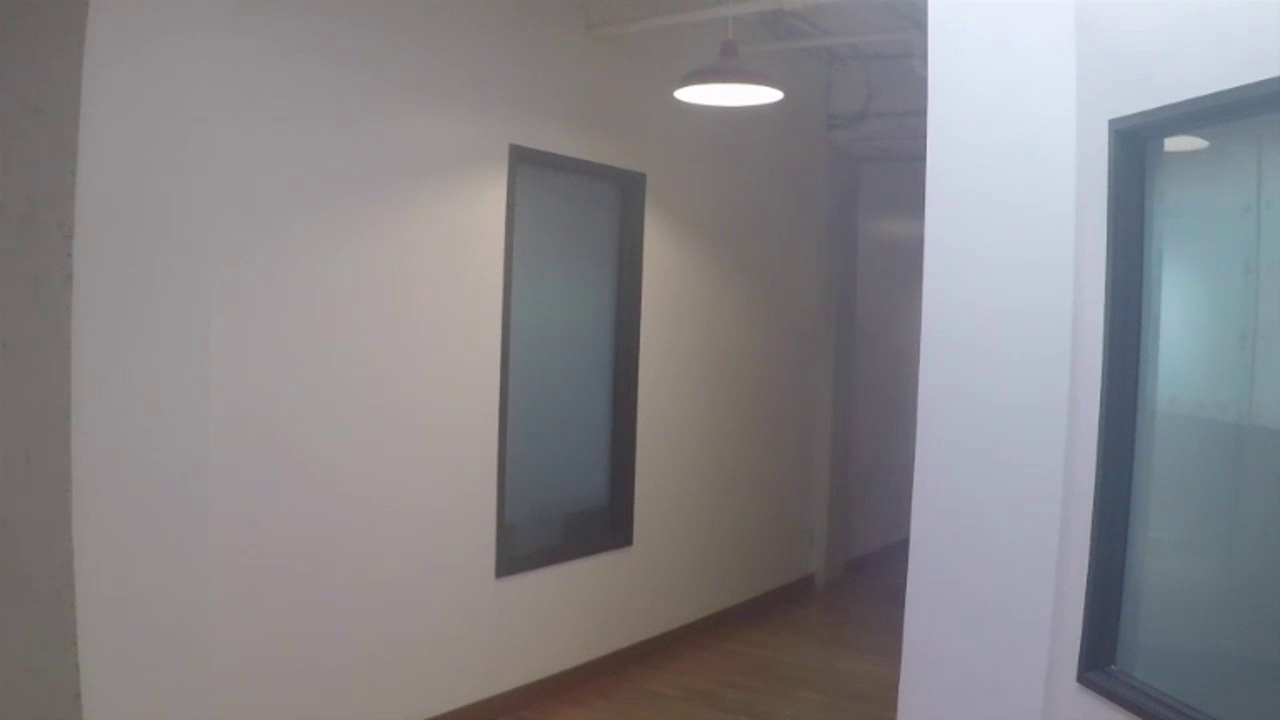
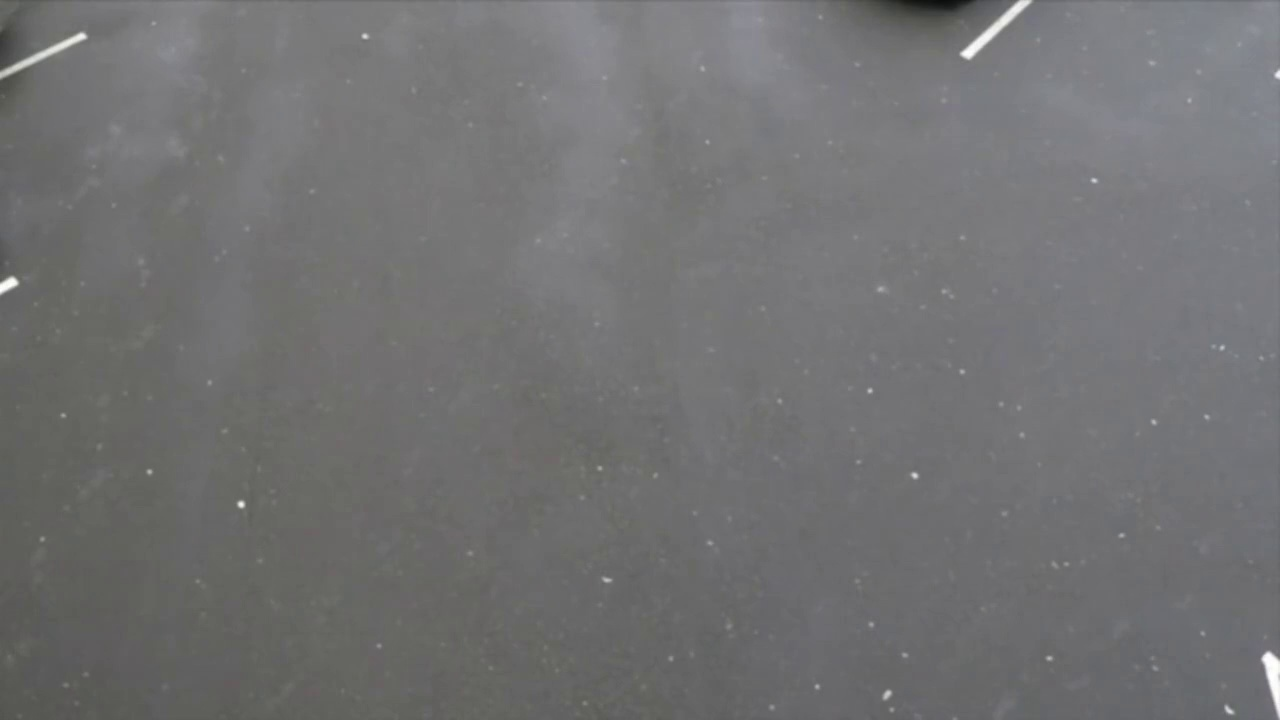
dashboard

diff --git a/RTSP/test_detection.py b/RTSP/test_detection.py
@@ -6,7 +6,7 @@ from ultralytics import YOLO
 model = YOLO("yolo26n.pt")
 
 # Capture one frame from your RTSP stream
-url = "rtsp://rtsp.rtsplink.com/live/people?token=02413f2d359a15dab4c1093aa226f1c0563e000f172a05846e2045c4db0d6932"
+url = "rtsp://rtsp.rtsplink.com/live/traffic?token=e11b68d6dedd8e4f671af2cf04de6e7c95bc1f00453664934e2b641e8c8ac122"
 cap = cv2.VideoCapture(url, cv2.CAP_FFMPEG)
 
 try:
